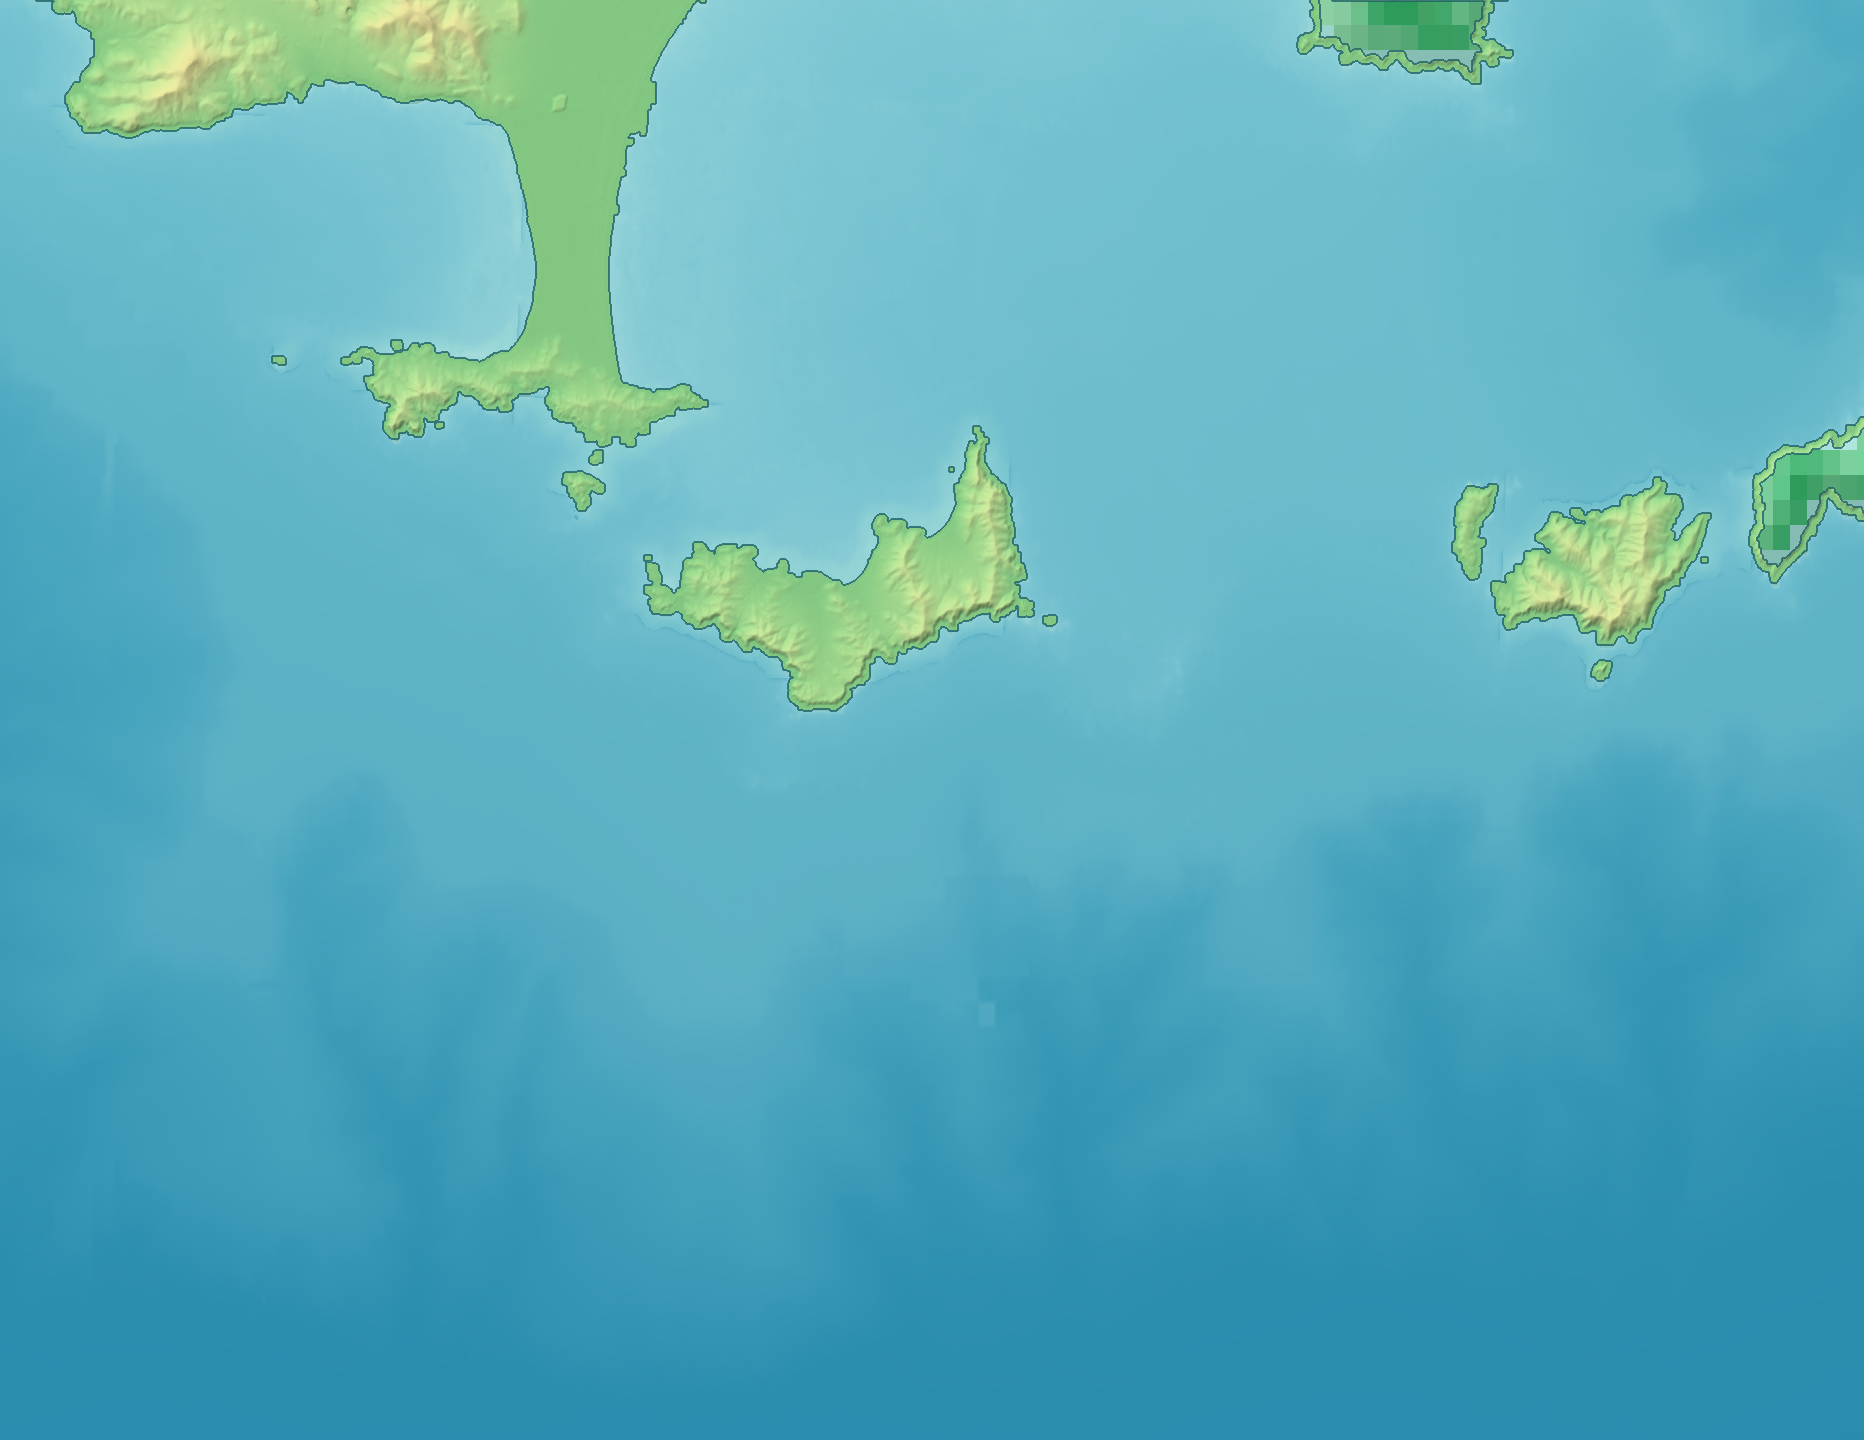
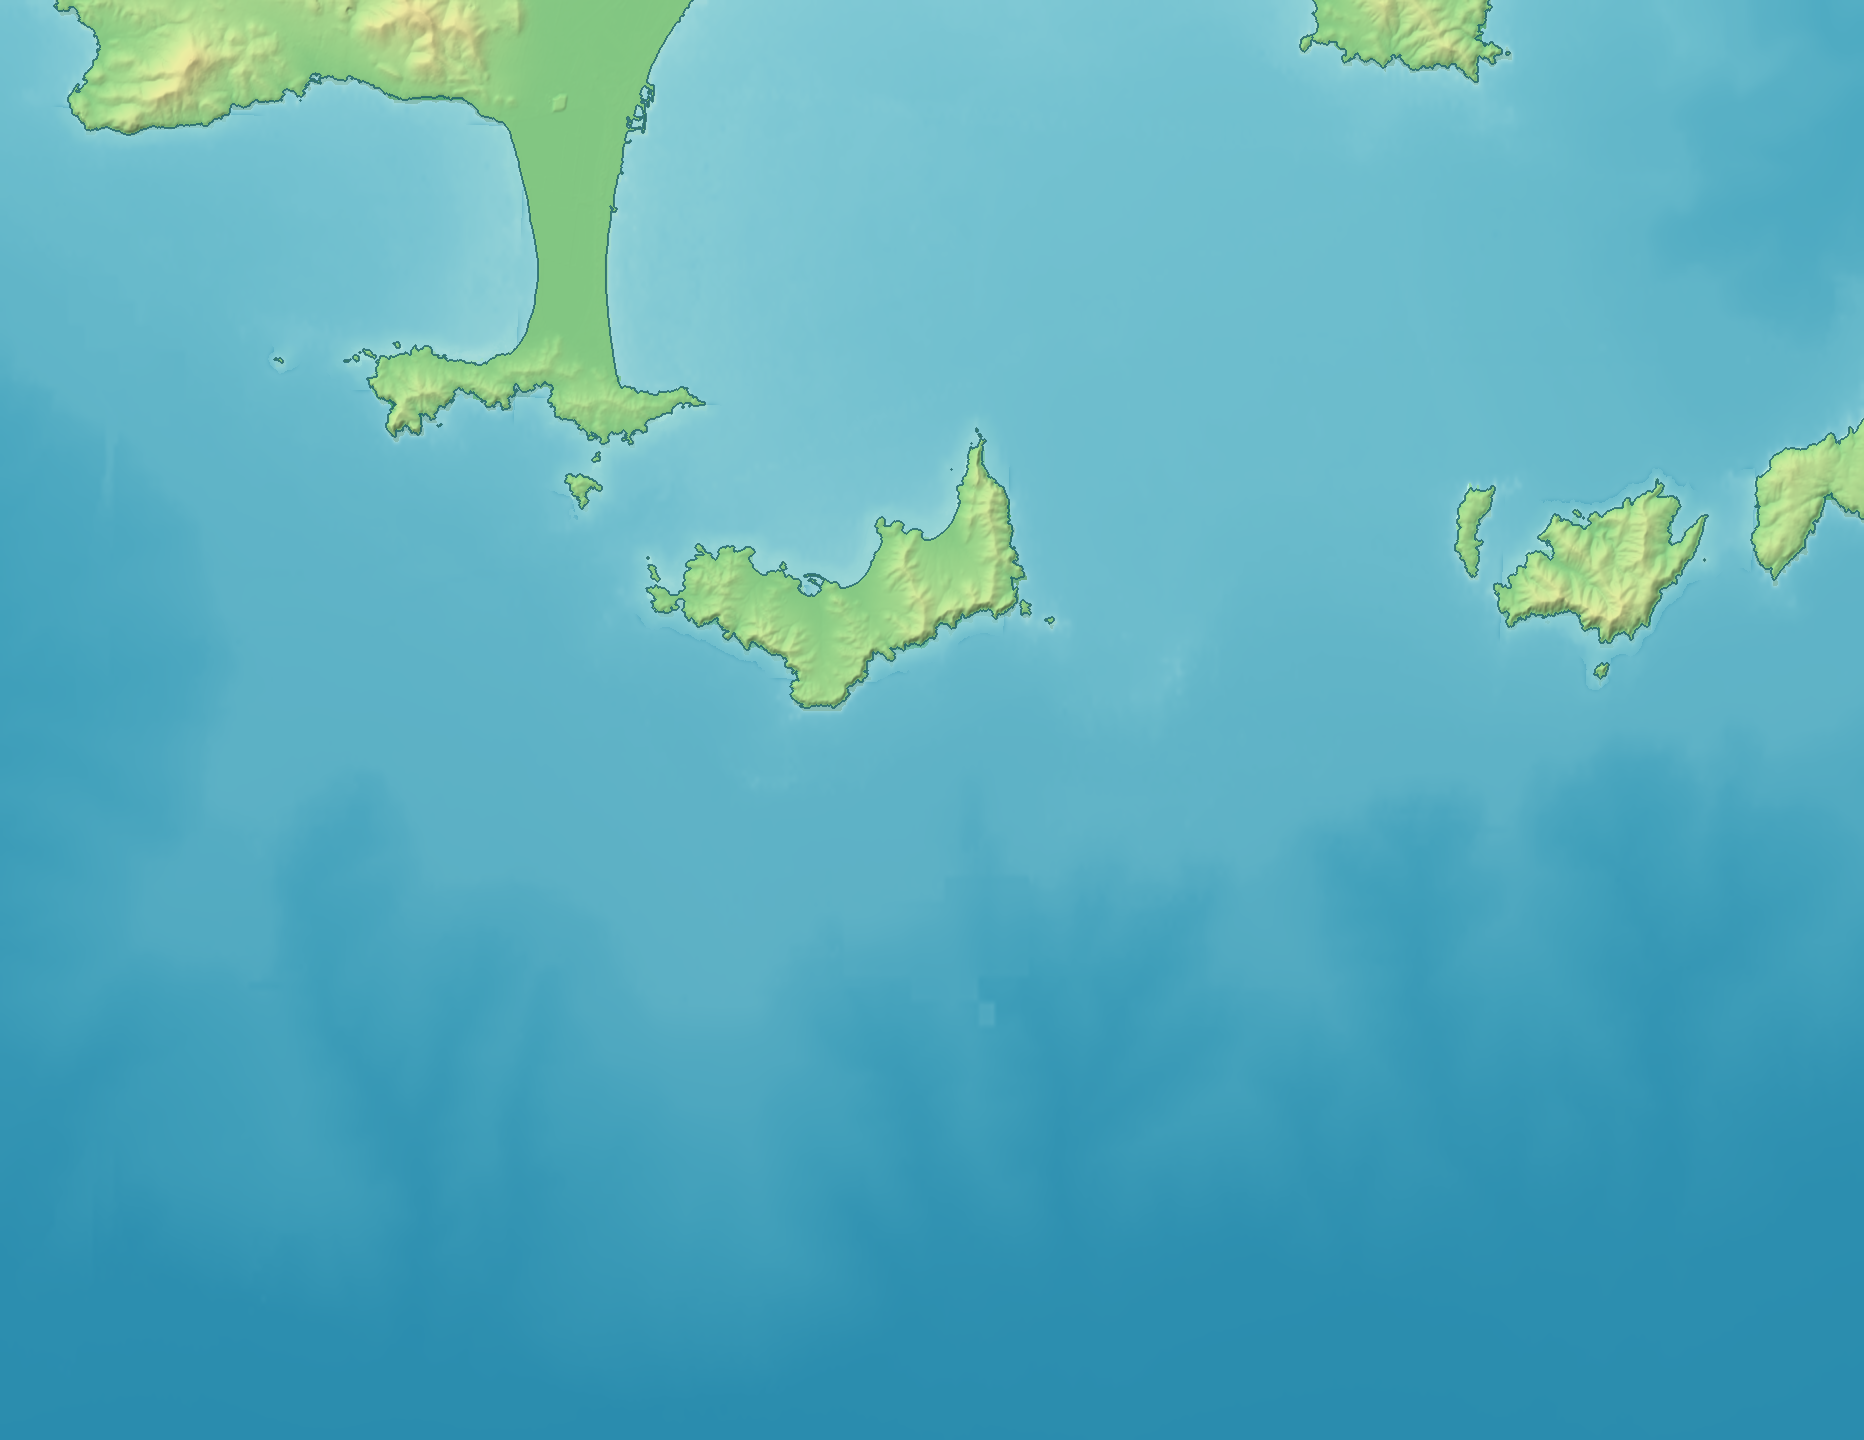
Adopt polygonal Var Centre land mask

diff --git a/regions/var-centre/WORKFLOW.md b/regions/var-centre/WORKFLOW.md
@@ -175,12 +175,13 @@ publiables, même si leurs actifs natifs passent les contrôles locaux.
 - Le builder partagé produit la carte régionale en `1864 × 1440 px` sur
   l'emprise WGS84 `[6.00, 42.86, 6.46, 43.10]`. Les copies régionale et Web sont
   identiques, avec le SHA-256
[2 lines of base64/hex data omitted]
 - L'inspection plein format confirme une emprise propre à Giens, Porquerolles
-  et Port-Cros, une côte continue et l'absence de grand polygone SLCONS en mer.
-  Le relief terrestre et la bathymétrie restent lisibles. Les fragments de
-  terre coupés aux bords nord et est montrent la résolution RGE de bord, sans
-  affecter les cinq secteurs de plongée.
+  et Port-Cros, une côte continue et l'absence de grand polygone artificiel en
+  mer. Le masque repose sur `885` polygones terre officiels Shom–IGN, totalisant
+  `722 931` sommets; sa surface de `0,066` diffère de `0,005` de la garde
+  Natural Earth. Le relief reste continu et détaillé sur les trois secteurs,
+  et les petits îlots sont conservés sans damiers RGE ni segments rectilignes.
 - Les cinq positions transformées depuis EPSG:2154 tombent dans le cadre. Les
   positions relatives vont de `15.05659 %` à `85.45102 %` horizontalement et de
   `25.02502 %` à `46.38333 %` verticalement. Cap des Mèdes et La Gabinière
